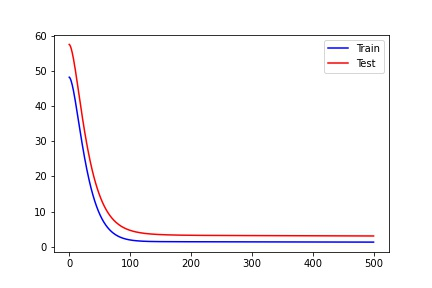
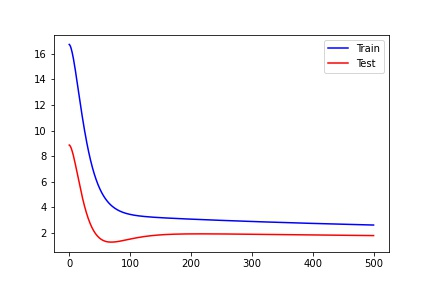
CNN3_test

diff --git a/CNN_version3.py b/CNN_version3.py
@@ -5,6 +5,8 @@ import matplotlib.pyplot as pt
 import torch as tr
 import math
 from data_generator import *
+import os
+os.environ['KMP_DUPLICATE_LIB_OK']='True'
 
 class ConvNet(tr.nn.Module):   
     def __init__(self, inputlayer, boardsize, hid_features, kernel_size):
@@ -58,7 +60,7 @@ if __name__ == "__main__":
 
 
     # Create CNN
-    net = ConvNet(inputlayer=1,boardsize=8,hid_features=4,kernel_size=2)
+    net = ConvNet(inputlayer=1,boardsize=10,hid_features=4,kernel_size=2)
     # in put board size and hidden features
     #net = ConvNet(size=8, hid_features=8)
     #print(net)
